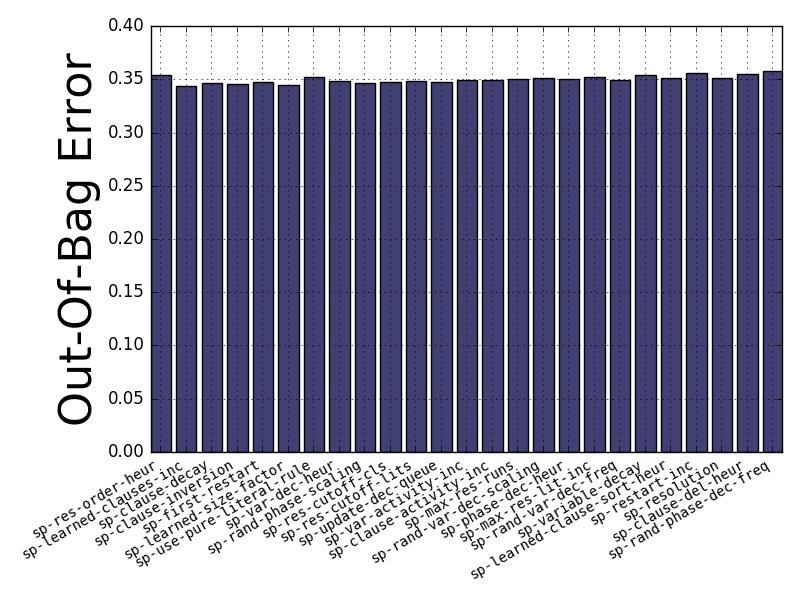
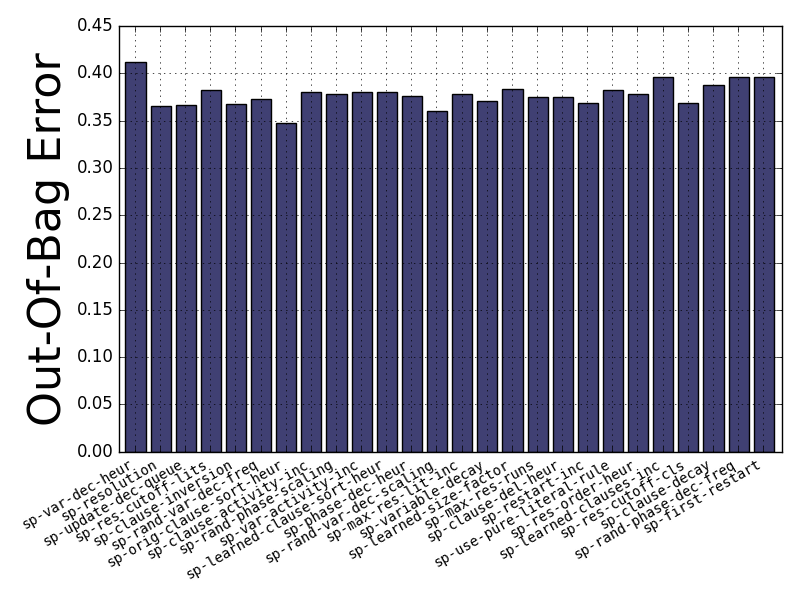
MAINT added option to evaluate feature importance with forward-selection

diff --git a/importance/evaluator/forward_selection.py b/importance/evaluator/forward_selection.py
@@ -14,7 +14,7 @@ __email__ = "biedenka@cs.uni-freiburg.de"
 
 class ForwardSelector(AbstractEvaluator):
 
-    def __init__(self, scenario, cs, model, to_evaluate: int, **kwargs):
+    def __init__(self, scenario, cs, model, to_evaluate: int, feature_imp: bool=False, **kwargs):
         """
         Constructor
         :parameter:
@@ -30,6 +30,7 @@ class ForwardSelector(AbstractEvaluator):
         super().__init__(scenario, cs, model, to_evaluate, **kwargs)
         self.name = 'Forward Selection'
         self.logger = self.name
+        self.feature_importance = feature_imp
 
     def run(self) -> OrderedDict:
         """
@@ -41,17 +42,28 @@ class ForwardSelector(AbstractEvaluator):
         """
         params = self.cs.get_hyperparameters()
         param_ids = list(range(len(params)))
+        feature_ids = list(range(len(params), len(self.types)))
         used = []
-        used.extend(range(len(params), len(self.model.types)))  # we don't want to evaluate the feature importance
+        if self.feature_importance:
+            used.extend(range(0, len(params)))
+            names = list(map(lambda x: str(len(feature_ids) + x - len(self.types)), feature_ids))
+            ids = feature_ids
+            if self.to_evaluate > len(feature_ids):
+                self.to_evaluate = len(feature_ids)
+        else:
+            used.extend(range(len(params), len(self.model.types)))  # we don't want to evaluate the feature importance
+            names = params
+            ids = param_ids
+
         num_feats = len(self.types) - len(params)
-        if num_feats > 0:
-            pca = PCA(n_components=min(7, len(self.types) - len(params)))
+        if not self.feature_importance and num_feats > 0:
+            pca = PCA(n_components=min(7, num_feats))
             self.scenario.feature_array = pca.fit_transform(self.scenario.feature_array)
 
         for _ in range(self.to_evaluate):  # Main Loop
             errors = []
-            for idx, parameter in zip(param_ids, params):
-                self.logger.debug('Evaluating %s' % parameter)
+            for idx, name in zip(ids, names):
+                self.logger.debug('Evaluating %s' % name)
                 used.append(idx)
                 self.logger.debug('Used parameters: %s' % str(used))
 
@@ -63,11 +75,15 @@ class ForwardSelector(AbstractEvaluator):
 
             best_idx = np.argmin(errors)
             lowest_error = errors[best_idx]
-            best_parameter = params.pop(best_idx)
-            used.append(param_ids.pop(best_idx))
+            best_parameter = names.pop(best_idx)
+            used.append(ids.pop(best_idx))
 
-            self.logger.info('%s: %.4f (OOB)' % (best_parameter.name, lowest_error))
-            self.evaluated_parameter_importance[best_parameter.name] = lowest_error
+            if self.feature_importance:
+                self.logger.info('%s: %.4f (OOB)' % (best_parameter, lowest_error))
+                self.evaluated_parameter_importance[best_parameter] = lowest_error
+            else:
+                self.logger.info('%s: %.4f (OOB)' % (best_parameter.name, lowest_error))
+                self.evaluated_parameter_importance[best_parameter.name] = lowest_error
         return self.evaluated_parameter_importance
 
     def _plot_result(self, name, bar=True):
@@ -92,7 +108,7 @@ class ForwardSelector(AbstractEvaluator):
         ax.set_ylabel('Out-Of-Bag Error', **self.LABEL_FONT)
         if bar:
             ax.set_xticks(ind+0.375)
-            ax.set_xlim(0, len(errors) - 1.25)
+            ax.set_xlim(-.25, len(errors) + 0.125)
         else:
             ax.set_xticks(ind)
             ax.set_xlim(0, len(errors) - 1)

diff --git a/importance/evaluator/fanova.py b/importance/evaluator/fanova.py
@@ -1,6 +1,6 @@
 from collections import OrderedDict
 from importance.evaluator.base_evaluator import AbstractEvaluator
-from importance.evaluator import fanova_pyrfr, Visualizer
+# from importance.evaluator import fanova_pyrfr, Visualizer
 
 __author__ = "Andre Biedenkapp"
 __copyright__ = "Copyright 2016, ML4AAD"

diff --git a/importance/evaluator/__init__.py b/importance/evaluator/__init__.py
@@ -1,2 +1,2 @@
-from fanova import fANOVA as fanova_pyrfr
-from fanova.visualizer import Visualizer
+# from fanova import fANOVA as fanova_pyrfr
+# from fanova.visualizer import Visualizer
